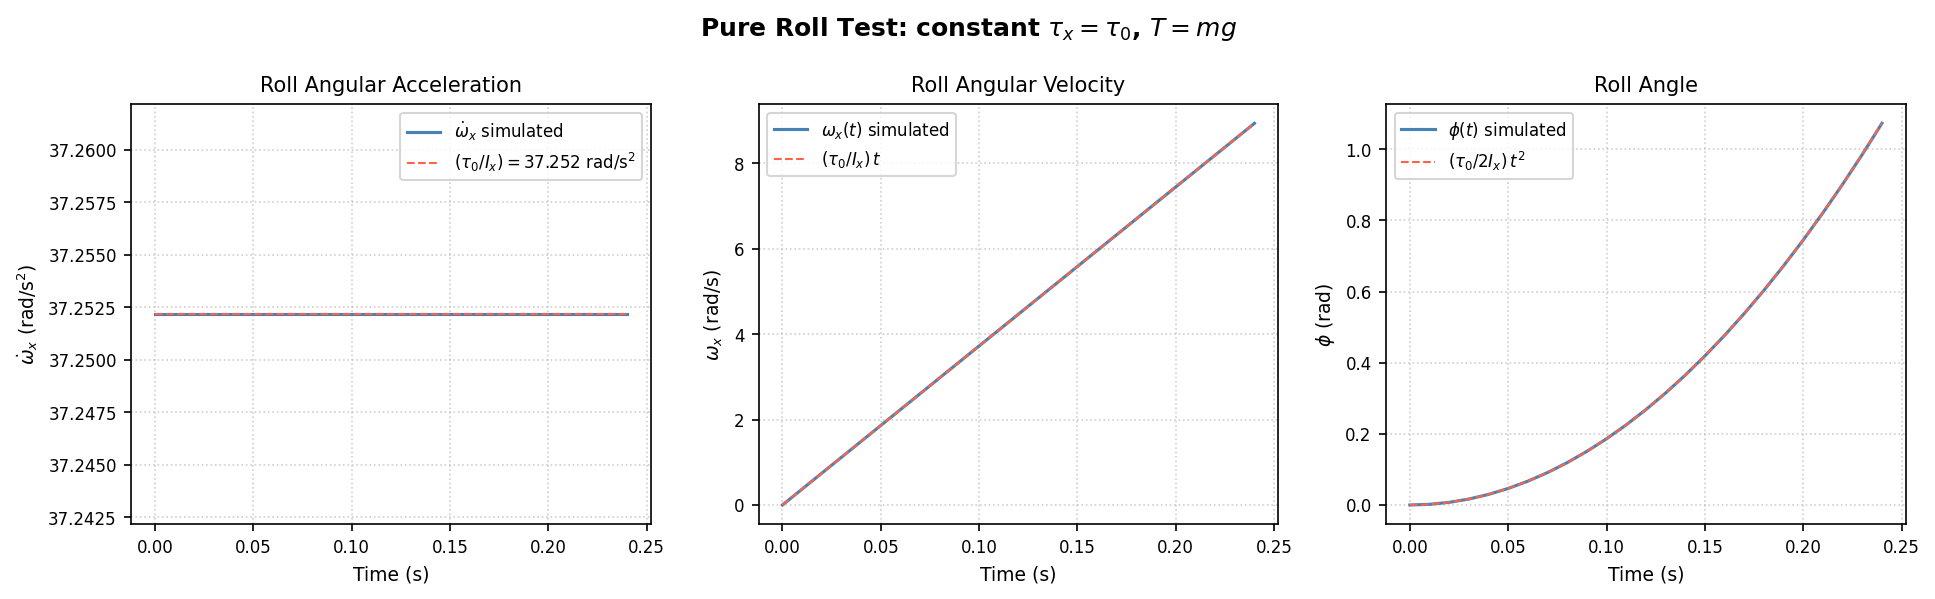
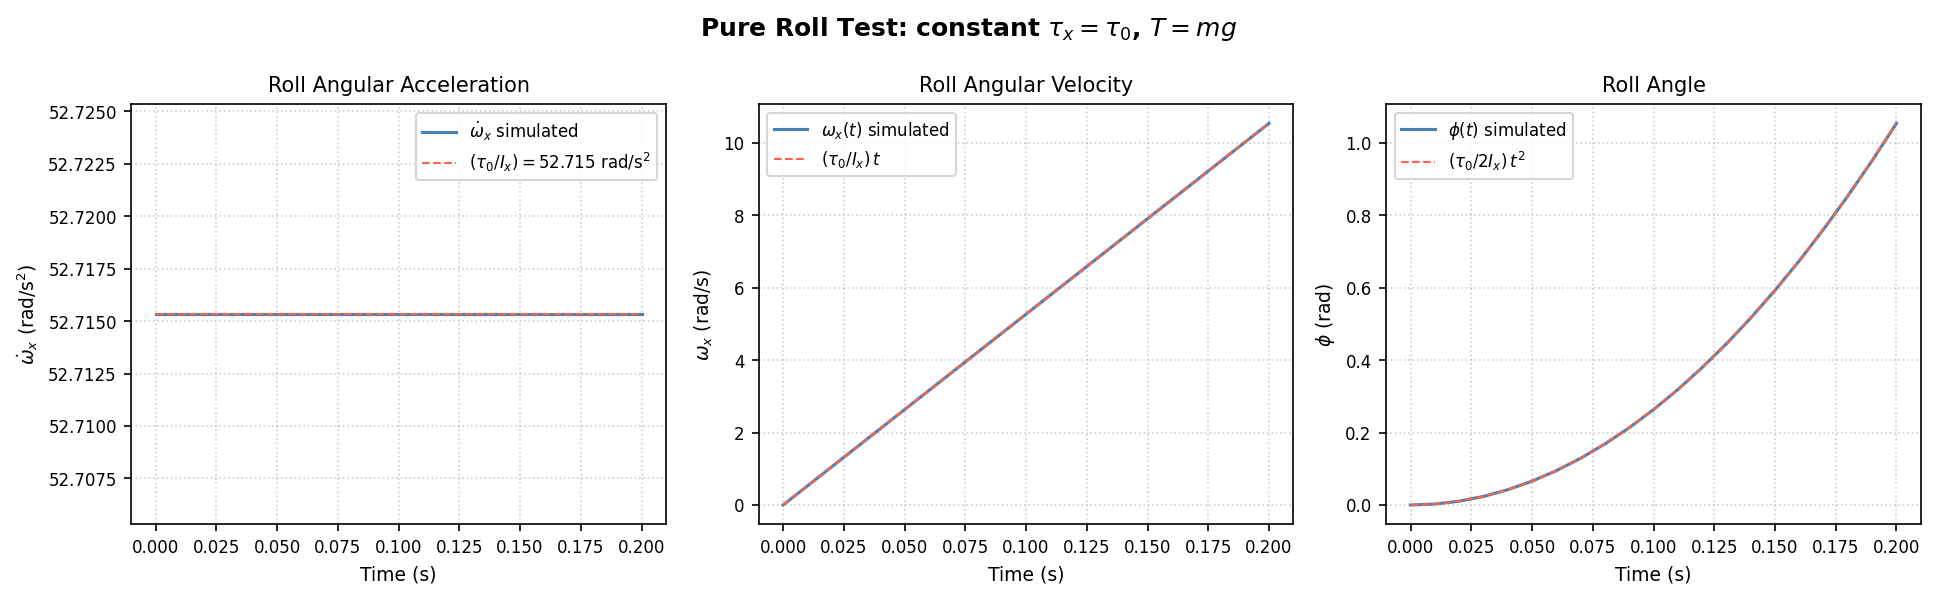
l param correction

diff --git a/src/quadrotor/params.py b/src/quadrotor/params.py
@@ -17,7 +17,7 @@ class Quadrotorparams:
 
     # drone dimensions and torque-thrust ratio:
 
-    l : float = 0.159 # arm length (m) from centre of mass
+    l : float = 0.225 # arm length (m) from centre of mass
     k_d: float = 0.1 # torque-thrust ratio
 
     # maximum thrust in N, for a single MN2212 T-motor (equivalent to 1.8kg)
